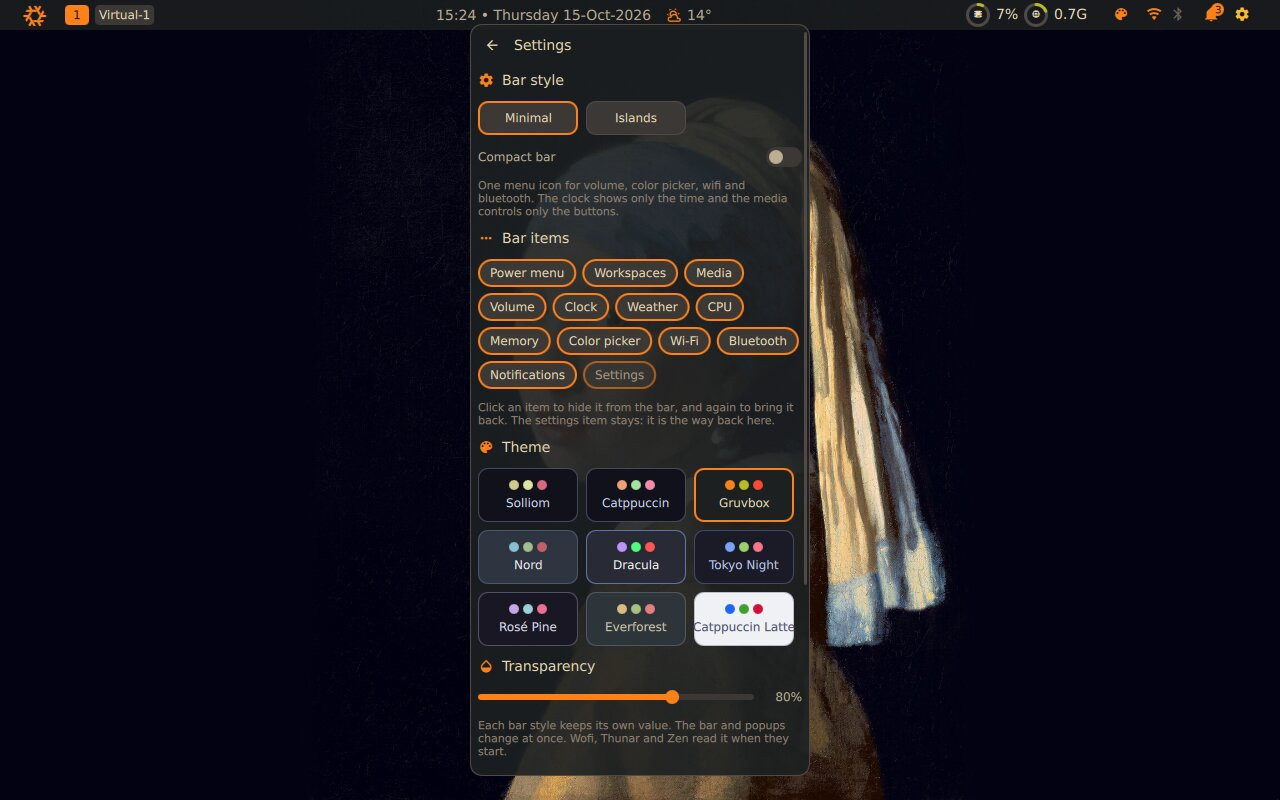
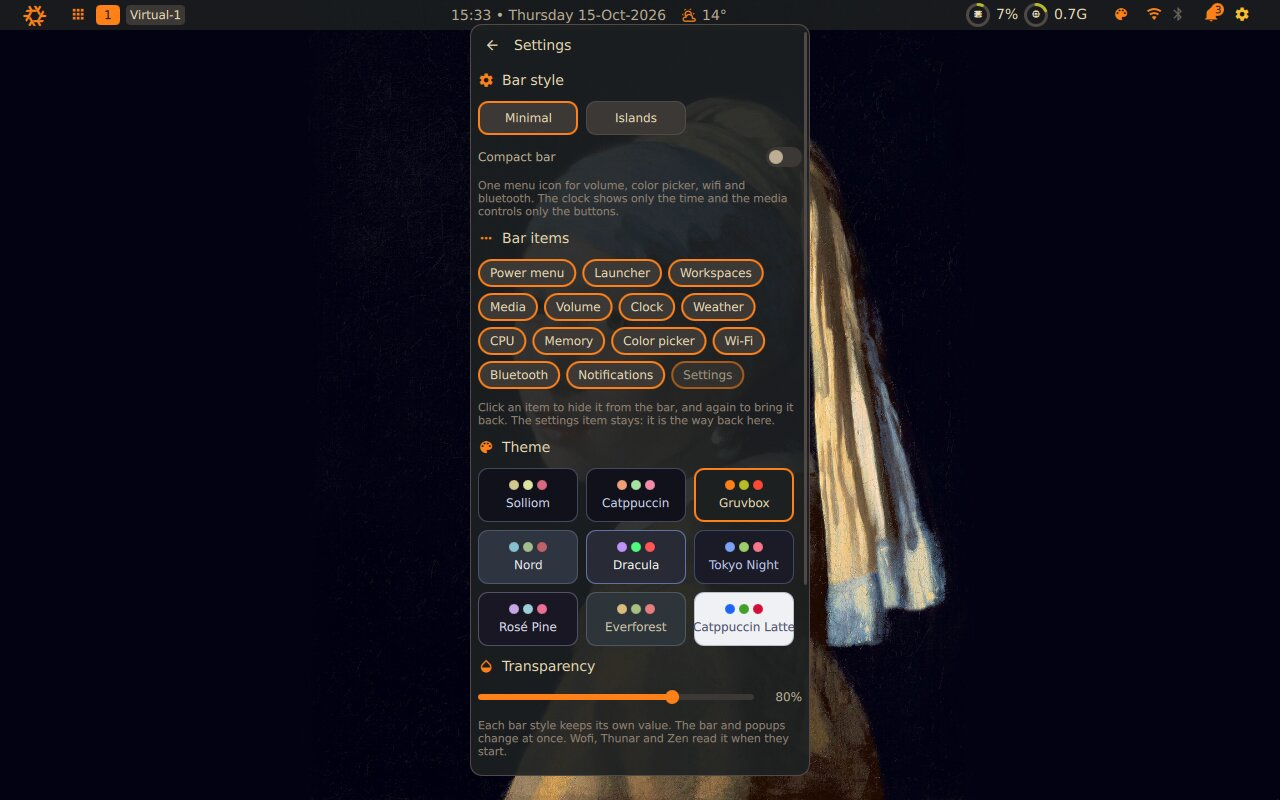
Add a launcher button to the bar
A grid icon next to the power button runs the launcher (wofi, in the theme's colors, by default)
and closes it again on the next click. The command is launcherCommand in settings.json, and
sol-shell ipc call launcher toggle does the same from a keybind. The program is found by the
start of its command line, because on NixOS wofi is a wrapper whose process is called
.wofi-wrapped; a program that only has the name in its arguments is left alone. The button is
an item like the others, so the Bar items settings can hide it.

The launcher's IPC command has to exist before the button has been clicked, and singletons are
only built when first used, so shell.qml uses it at startup.

The README pictures are taken again, with the button in them.

Changed region(s): [[0.375, 0.3125, 0.625, 0.5], [0.3438, 0.0, 0.5625, 0.0312], [0.0312, 0.0, 0.1562, 0.0312]]

diff --git a/singletons/LauncherService.qml b/singletons/LauncherService.qml
@@ -1,0 +1,48 @@
+pragma Singleton
+
+import Quickshell
+import Quickshell.Io
+import QtQuick
+
+// The application launcher (wofi, by default) behind the launcher button in the bar. One click
+// opens it, the next closes it: a launcher is a program of its own, so "closing" it means stopping
+// that program. It works the same from the command line, for a keybind:
+//
+//     sol-shell ipc call launcher toggle
+//
+// The command is Settings.launcherCommand. The program is found by the start of its command
+// line (its first word, without its folder), so a launcher started some other way, from a keybind
+// of your own, is closed by the button too. On NixOS wofi is a wrapper whose process is called
+// `.wofi-wrapped`, and process names are cut at 15 characters, so its name could not be used.
+Singleton {
+    id: root
+
+    readonly property string command: Settings.launcherCommand
+
+    // the program's name: "wofi" for "wofi --show drun ...", "rofi" for "/usr/bin/rofi -show drun"
+    readonly property string programName: command.trim().split(/\s+/)[0].split("/").pop()
+
+    // A pattern for pkill -f that matches the start of the command line of that program, with or
+    // without its folder, as a Nix wrapper (`.wofi-wrapped`) or not, followed by its arguments or
+    // nothing. Anchored at the start so that a program that merely has the name somewhere in its
+    // arguments (an editor with wofi.css open) is not hit.
+    readonly property string pattern: "^([^ ]*/)?\\.?" + programName.replace(/[.*+?^${}()|[\]\\]/g, "\\$&") + "(-wrapped)?( |$)"
+
+    // Close the launcher if it is running (pkill says so with its exit status), start it if not.
+    // The pattern and the command are passed as arguments, not written into the script, so
+    // nothing in them is ever read as shell code by this script (the command itself is run by
+    // a shell, so `~` and quotes work in it). Only your own programs are closed.
+    function toggle(): void {
+        if (programName === "")
+            return;
+        Quickshell.execDetached(["sh", "-c", "pkill -u \"$(id -u)\" -f \"$1\" || exec sh -c \"$2\"", "sh", pattern, command]);
+    }
+
+    IpcHandler {
+        target: "launcher"
+
+        function toggle(): void {
+            root.toggle();
+        }
+    }
+}

diff --git a/singletons/BarStyle.qml b/singletons/BarStyle.qml
@@ -34,13 +34,14 @@ Singleton {
 
     // The atoms (items of the bar) a style can list. BarRenderer builds one of each; it
     // says so in the log if it lacks one named here.
-    readonly property var atomNames: ["power", "workspaces", "media", "volume", "clock", "weather", "cpu", "memory", "colorPicker", "wifi", "bluetooth", "bell", "settings", "quickSettings"]
+    readonly property var atomNames: ["power", "workspaces", "media", "volume", "clock", "weather", "cpu", "memory", "colorPicker", "wifi", "bluetooth", "bell", "settings", "quickSettings", "launcher"]
     // the one every style has to include: it is how you get to the settings
     readonly property string requiredAtom: "settings"
 
     // What the settings call each atom
     readonly property var atomLabels: ({
             power: "Power menu",
+            launcher: "Launcher",
             workspaces: "Workspaces",
             media: "Media",
             volume: "Volume",

diff --git a/singletons/Settings.qml b/singletons/Settings.qml
@@ -90,6 +90,10 @@ Singleton {
         saved.hiddenAtoms = list;
     }
 
+    // The command the launcher button runs (see LauncherService): wofi with the colors of the
+    // theme, as README.md describes. Change it by hand in settings.json to use another launcher.
+    property alias launcherCommand: saved.launcherCommand
+
     // true = the theme's light or dark side is also written to the desktop-wide
     // preference (dconf), so programs the shell cannot color (Electron, GTK4) follow it.
     // Off by default: it changes a setting outside this shell.
@@ -115,6 +119,7 @@ Singleton {
             property string barStyle: "minimal"
             property bool compactBar: false
             property var hiddenAtoms: []
+            property string launcherCommand: "wofi --show drun --style ~/.local/state/theme/wofi.css"
             property bool syncSystemColorScheme: false
         }
 

diff --git a/statusbar/styles/IslandsStyle.qml b/statusbar/styles/IslandsStyle.qml
@@ -41,7 +41,7 @@ QtObject {
                         atom: "power",
                         width: 30,
                         height: 26
-                    }], ["workspaces"]],
+                    }, "launcher"], ["workspaces"]],
             center: [["media"], ["clock", "weather"]],
             right: [["cpu", "memory"], ["volume", "colorPicker", "wifi", "bluetooth"], ["bell", "settings"]]
         })
@@ -53,7 +53,7 @@ QtObject {
                         atom: "power",
                         width: 30,
                         height: 26
-                    }], ["workspaces"]],
+                    }, "launcher"], ["workspaces"]],
             center: [[{
                         atom: "media",
                         props: {

diff --git a/statusbar/styles/MinimalStyle.qml b/statusbar/styles/MinimalStyle.qml
@@ -54,7 +54,7 @@ QtObject {
         })
 
     readonly property var sections: ({
-            left: ["power", "workspaces"],
+            left: ["power", "launcher", "workspaces"],
             center: ["media", {
                     atom: "volume",
                     gap: 11
@@ -84,7 +84,7 @@ QtObject {
     // The same bar, compact: the volume ring, color picker, wifi and bluetooth are one icon with
     // a menu, the clock shows only the time and the media controls only the buttons.
     readonly property var compactSections: ({
-            left: ["power", "workspaces"],
+            left: ["power", "launcher", "workspaces"],
             center: [{
                     atom: "media",
                     props: {

diff --git a/statusbar/components/Launcher.qml b/statusbar/components/Launcher.qml
@@ -1,0 +1,27 @@
+import QtQuick
+import "../../singletons"
+
+// A button that opens the application launcher (wofi, see LauncherService), and closes it again.
+Item {
+    id: root
+
+    implicitWidth: 26
+    implicitHeight: 26
+
+    Text {
+        anchors.centerIn: parent
+        text: Icons.launcher
+        // a little brighter while the mouse is over it
+        color: mouse.containsMouse ? Theme.accentHover : Theme.accent
+        font.family: Fonts.materialIconFontFamily
+        font.pixelSize: Fonts.bodyLarge
+    }
+
+    MouseArea {
+        id: mouse
+        anchors.fill: parent
+        hoverEnabled: true
+        cursorShape: Qt.PointingHandCursor
+        onClicked: LauncherService.toggle()
+    }
+}

diff --git a/shell.qml b/shell.qml
@@ -6,9 +6,15 @@ import "./notifications"
 import "./lock"
 import "./export"
 import "./settings"
+import "./singletons"
 
 // Entry point: puts a wallpaper and a status bar on every monitor.
 ShellRoot {
+    // Singletons are only built when something first uses them. The launcher's command for a
+    // keybind (`sol-shell ipc call launcher toggle`) has to be there whether or not the button
+    // is in the bar, and before anyone has clicked it, so it is used here.
+    Component.onCompleted: LauncherService.command
+
     // one wallpaper per monitor
     //
     // Variants makes one copy of what is inside it for every item in `model`.

diff --git a/statusbar/BarRenderer.qml b/statusbar/BarRenderer.qml
@@ -25,6 +25,7 @@ Item {
     // a real item, once per entry. An atom that needs to know the monitor gets it here.
     readonly property var atoms: ({
             power: powerAtom,
+            launcher: launcherAtom,
             workspaces: workspacesAtom,
             media: mediaAtom,
             volume: volumeAtom,
@@ -43,6 +44,10 @@ Item {
     Component {
         id: powerAtom
         PowerMenu {}
+    }
+    Component {
+        id: launcherAtom
+        Launcher {}
     }
     Component {
         id: workspacesAtom

diff --git a/singletons/Icons.qml b/singletons/Icons.qml
@@ -64,6 +64,8 @@ Singleton {
     readonly property string sleep: ""
     readonly property string logout: ""
     readonly property string settings: ""
+    // a grid of squares: the launcher button in the bar (Material Design Icons apps)
+    readonly property string launcher: ""
     // three dots: the quick settings menu in the compact bar (Material Design Icons dots-horizontal)
     readonly property string quickSettings: ""
     readonly property string colorScheme: ""

diff --git a/README.md b/README.md
@@ -14,6 +14,8 @@ What you get, on every monitor:
 - **Status bar** with
   - a power menu (lock, suspend, and shut down, restart and log out, which each need a
     second click to confirm)
+  - a **launcher button** next to the power menu: opens the application launcher (Wofi, in the
+    theme's colors) and closes it again on the next click
   - a gear that opens the settings window, to pick a **theme** and a **wallpaper**
   - Hyprland workspaces
   - media controls for whatever is playing (title, progress bar, previous,
@@ -177,6 +179,7 @@ they are never committed. The file looks like this and can be edited by hand:
     "barStyle": "minimal",
     "compactBar": false,
     "hiddenAtoms": [],
+    "launcherCommand": "wofi --show drun --style ~/.local/state/theme/wofi.css",
     "backgroundOpacity": 0.8,
     "opacityByStyle": {},
     "wallpaper": "",
@@ -188,6 +191,10 @@ they are never committed. The file looks like this and can be edited by hand:
 - Compact bar (`compactBar`, off by default): each bar style has a compact layout, switched on
   here. The volume ring, color picker, Wi-Fi and Bluetooth become one menu icon, the clock shows
   only the time and the media controls only the buttons.
+- Launcher (`launcherCommand`): what the launcher button runs. It starts that program, and
+  closes it if it is already running (found by the name of its first word, so a launcher you
+  opened some other way is closed too). Put another launcher here (`fuzzel`, `rofi -show drun`)
+  to use it. `sol-shell ipc call launcher toggle` does the same from a keybind.
 - Bar items (`hiddenAtoms`, empty by default): the items of the bar you have switched off, by
   name (`"weather"`, `"wifi"`, ...). In the settings window, click an item under **Bar items** to
   hide it and again to bring it back; the bar changes at once. The list is the same for every bar

diff --git a/TODO.md b/TODO.md
@@ -23,8 +23,9 @@ Done: the settings window has a **Bar items** section with a chip per item of th
 
 ## 2. New items
 
-- [ ] **Launcher button**: opens wofi (installed; the shell already themes it). A second click
-      closes it. Sits next to the power button.
+- [x] **Launcher button**: opens wofi (installed; the shell already themes it). A second click
+      closes it. Sits next to the power button. The command is `launcherCommand` in `settings.json`
+      and `sol-shell ipc call launcher toggle` does the same for a keybind.
 - [ ] **Keyboard layout**: shows the active layout (`us`, `nl`) and switches on click. Read it from
       Hyprland (`hyprctl devices -j`, and the `activelayout` event for changes); switch with
       `hyprctl switchxkblayout`. Hide it when there is only one layout.
